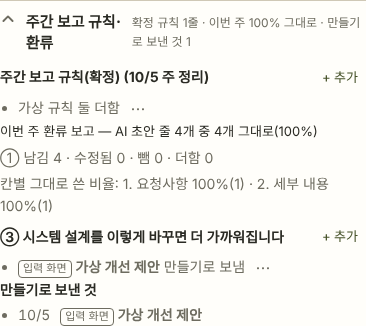
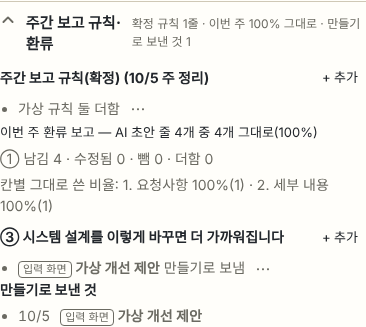
[S67-64] 기본 먹은 강조만 바꾸고 바탕·글자는 옛 기본 그대로, 올리브 그대로 + 시험 갱신
Claude-Session: https://claude.ai/code/session_018yqVMwCKHSbYqBDigY1N8J

diff --git a/app/theme-tokens.css b/app/theme-tokens.css
@@ -1,18 +1,18 @@
 /* S67-64(2026-11-21 명진 08:15 "기본 색상을 먹으로"): 기본 색은 먹 — 바탕·글자 계열은 오트밀(옛 기본 올리브와 같은 바탕),
-   강조(주 버튼 채움·고른 아래 탭·고른 칩·링크·고른 날 동그라미)는 먹 #22262b 위 글자 #f3f1ea, 연한 고른 바탕은 #e7e5df.
+   바탕·글자·선 값은 옛 기본 올리브와 똑같고, 강조(주 버튼 채움·고른 아래 탭·고른 칩·링크·고른 날 동그라미)만 먹 #22262b 위 글자 #f3f1ea, 연한 고른 바탕은 #e7e5df.
    옛 먹(#4a4a46 회색)을 고른 사람도 이 먹으로 보인다. 올리브는 고르는 색 하나로 남는다. */
 :root,[data-theme="ink"]{
   --kptu-bg:#f3f1ea;--kptu-surface:#fffefa;--kptu-surface-subtle:#f7f5ee;
-  --kptu-ink:#22262b;--kptu-muted:#6b6a62;--kptu-faint:#8f8c7f;
+  --kptu-ink:#2a2a23;--kptu-muted:#6e6c60;--kptu-faint:#8f8c7f;
   --kptu-border:#e2ddd0;--kptu-border-strong:#cfc8b6;
   --kptu-primary:#22262b;--kptu-primary-hover:#343a42;--kptu-primary-ink:#22262b;
   --kptu-primary-soft:#e7e5df;--kptu-on-primary:#f3f1ea;--kptu-link:#22262b;
   /* 글자로 쓰는 강조색(탭 글자·오늘 표시·마우스를 올린 메뉴 글자 등). 보통은 주 버튼 색과 같고, 산뜻한 다섯 색은 읽히는 글자색(--kptu-primary-ink)이다. */
   --kptu-primary-text:var(--kptu-primary);
 }
-/* 올리브(옛 기본): 바탕은 기본(먹)과 구별되게 조금 더 노란 오트밀. */
+/* 올리브(옛 기본): 바탕·글자는 기본(먹)과 같은 오트밀, 강조만 올리브. */
 [data-theme="olive"]{
-  --kptu-bg:#f2efe5;--kptu-surface:#fffefa;--kptu-surface-subtle:#f7f5ee;
+  --kptu-bg:#f3f1ea;--kptu-surface:#fffefa;--kptu-surface-subtle:#f7f5ee;
   --kptu-ink:#2a2a23;--kptu-muted:#6e6c60;--kptu-faint:#8f8c7f;
   --kptu-border:#e2ddd0;--kptu-border-strong:#cfc8b6;
   --kptu-primary:#5c6a35;--kptu-primary-hover:#4d5a2c;--kptu-primary-ink:#47532a;

diff --git a/docs/design-decisions.md b/docs/design-decisions.md
@@ -1174,5 +1174,5 @@ PC(1024px~) 담당조직 상세 칸만 바꾼다. 왼쪽 조직 목록과 폰·7
 - 아이콘은 앱 아이콘(`app/app-icon.svg`) 그대로, 누르면 홈. 보이는 크기 20px, 누르는 범위 44px(UI-버튼기준).
 - 홈은 날짜 글자('11월 21일 토요일')가 화면 이름 자리이고 [하루|주간 보고]가 오른쪽. 일정·노트·조직 관리처럼 칩이 없는 화면도 같은 줄 규칙.
 - PC 틀(761px~)은 사이드바 맨 위 아이콘과 위쪽 경로 줄이 같은 일을 하므로 아이콘을 더하지 않는다(사업 관리는 이미 한 줄, BIZ-위쪽정돈PC).
-- 기본 화면 색은 먹: 강조(채운 버튼·고른 아래 탭·고른 칩·링크·고른 날 동그라미) #22262b, 그 위 글자 #f3f1ea, 연한 고른 바탕 #e7e5df. 바탕은 옛 기본과 같은 오트밀. 어두운 화면은 먹을 뒤집어 강조 #f3f1ea, 위 글자 #22262b. 값은 `theme-tokens.css` 첫 블록 한 곳. 화면 색에서 다른 색을 고른 사람은 그대로이고, 옛 '먹'(회색)을 고른 사람은 새 먹으로 보인다. 올리브는 고르는 색으로 남고 바탕은 기본과 구별되게 조금 더 노란 오트밀(#f2efe5).
+- 기본 화면 색은 먹: 강조(채운 버튼·고른 아래 탭·고른 칩·링크·고른 날 동그라미) #22262b, 그 위 글자 #f3f1ea, 연한 고른 바탕 #e7e5df. 바탕은 옛 기본과 같은 오트밀. 어두운 화면은 먹을 뒤집어 강조 #f3f1ea, 위 글자 #22262b. 값은 `theme-tokens.css` 첫 블록 한 곳. 화면 색에서 다른 색을 고른 사람은 그대로이고, 옛 '먹'(회색)을 고른 사람은 새 먹으로 보인다. 올리브는 고르는 색으로 그대로 남는다(바탕은 기본과 같은 오트밀, 강조만 올리브).
 
